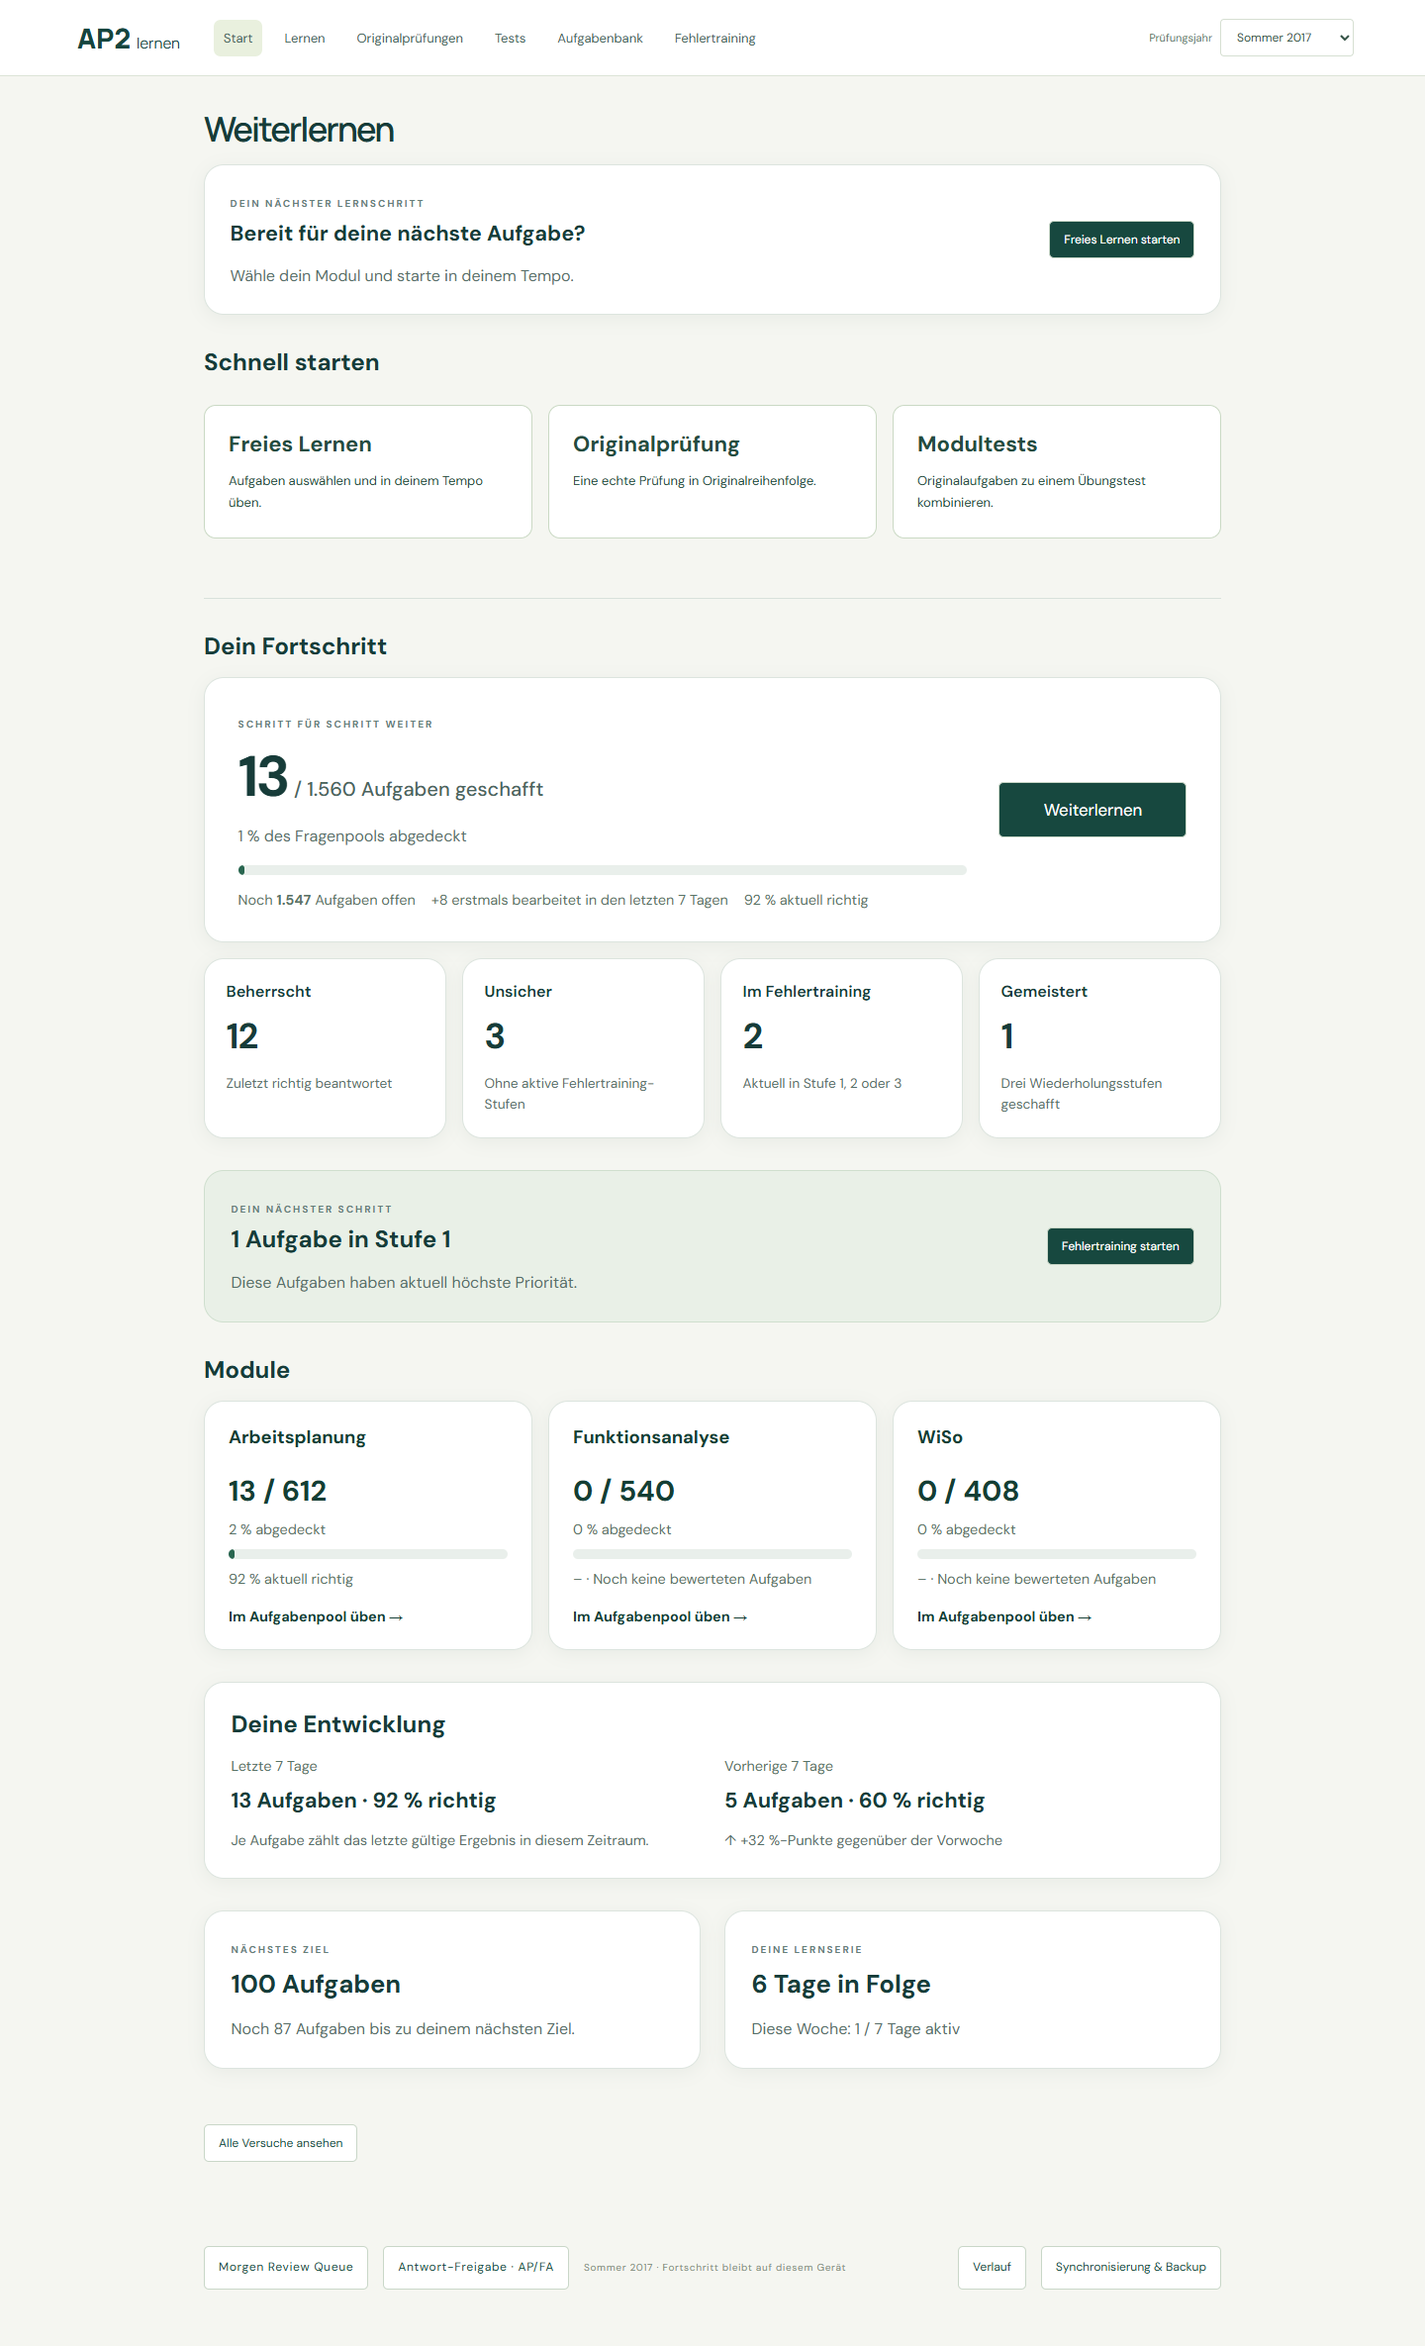
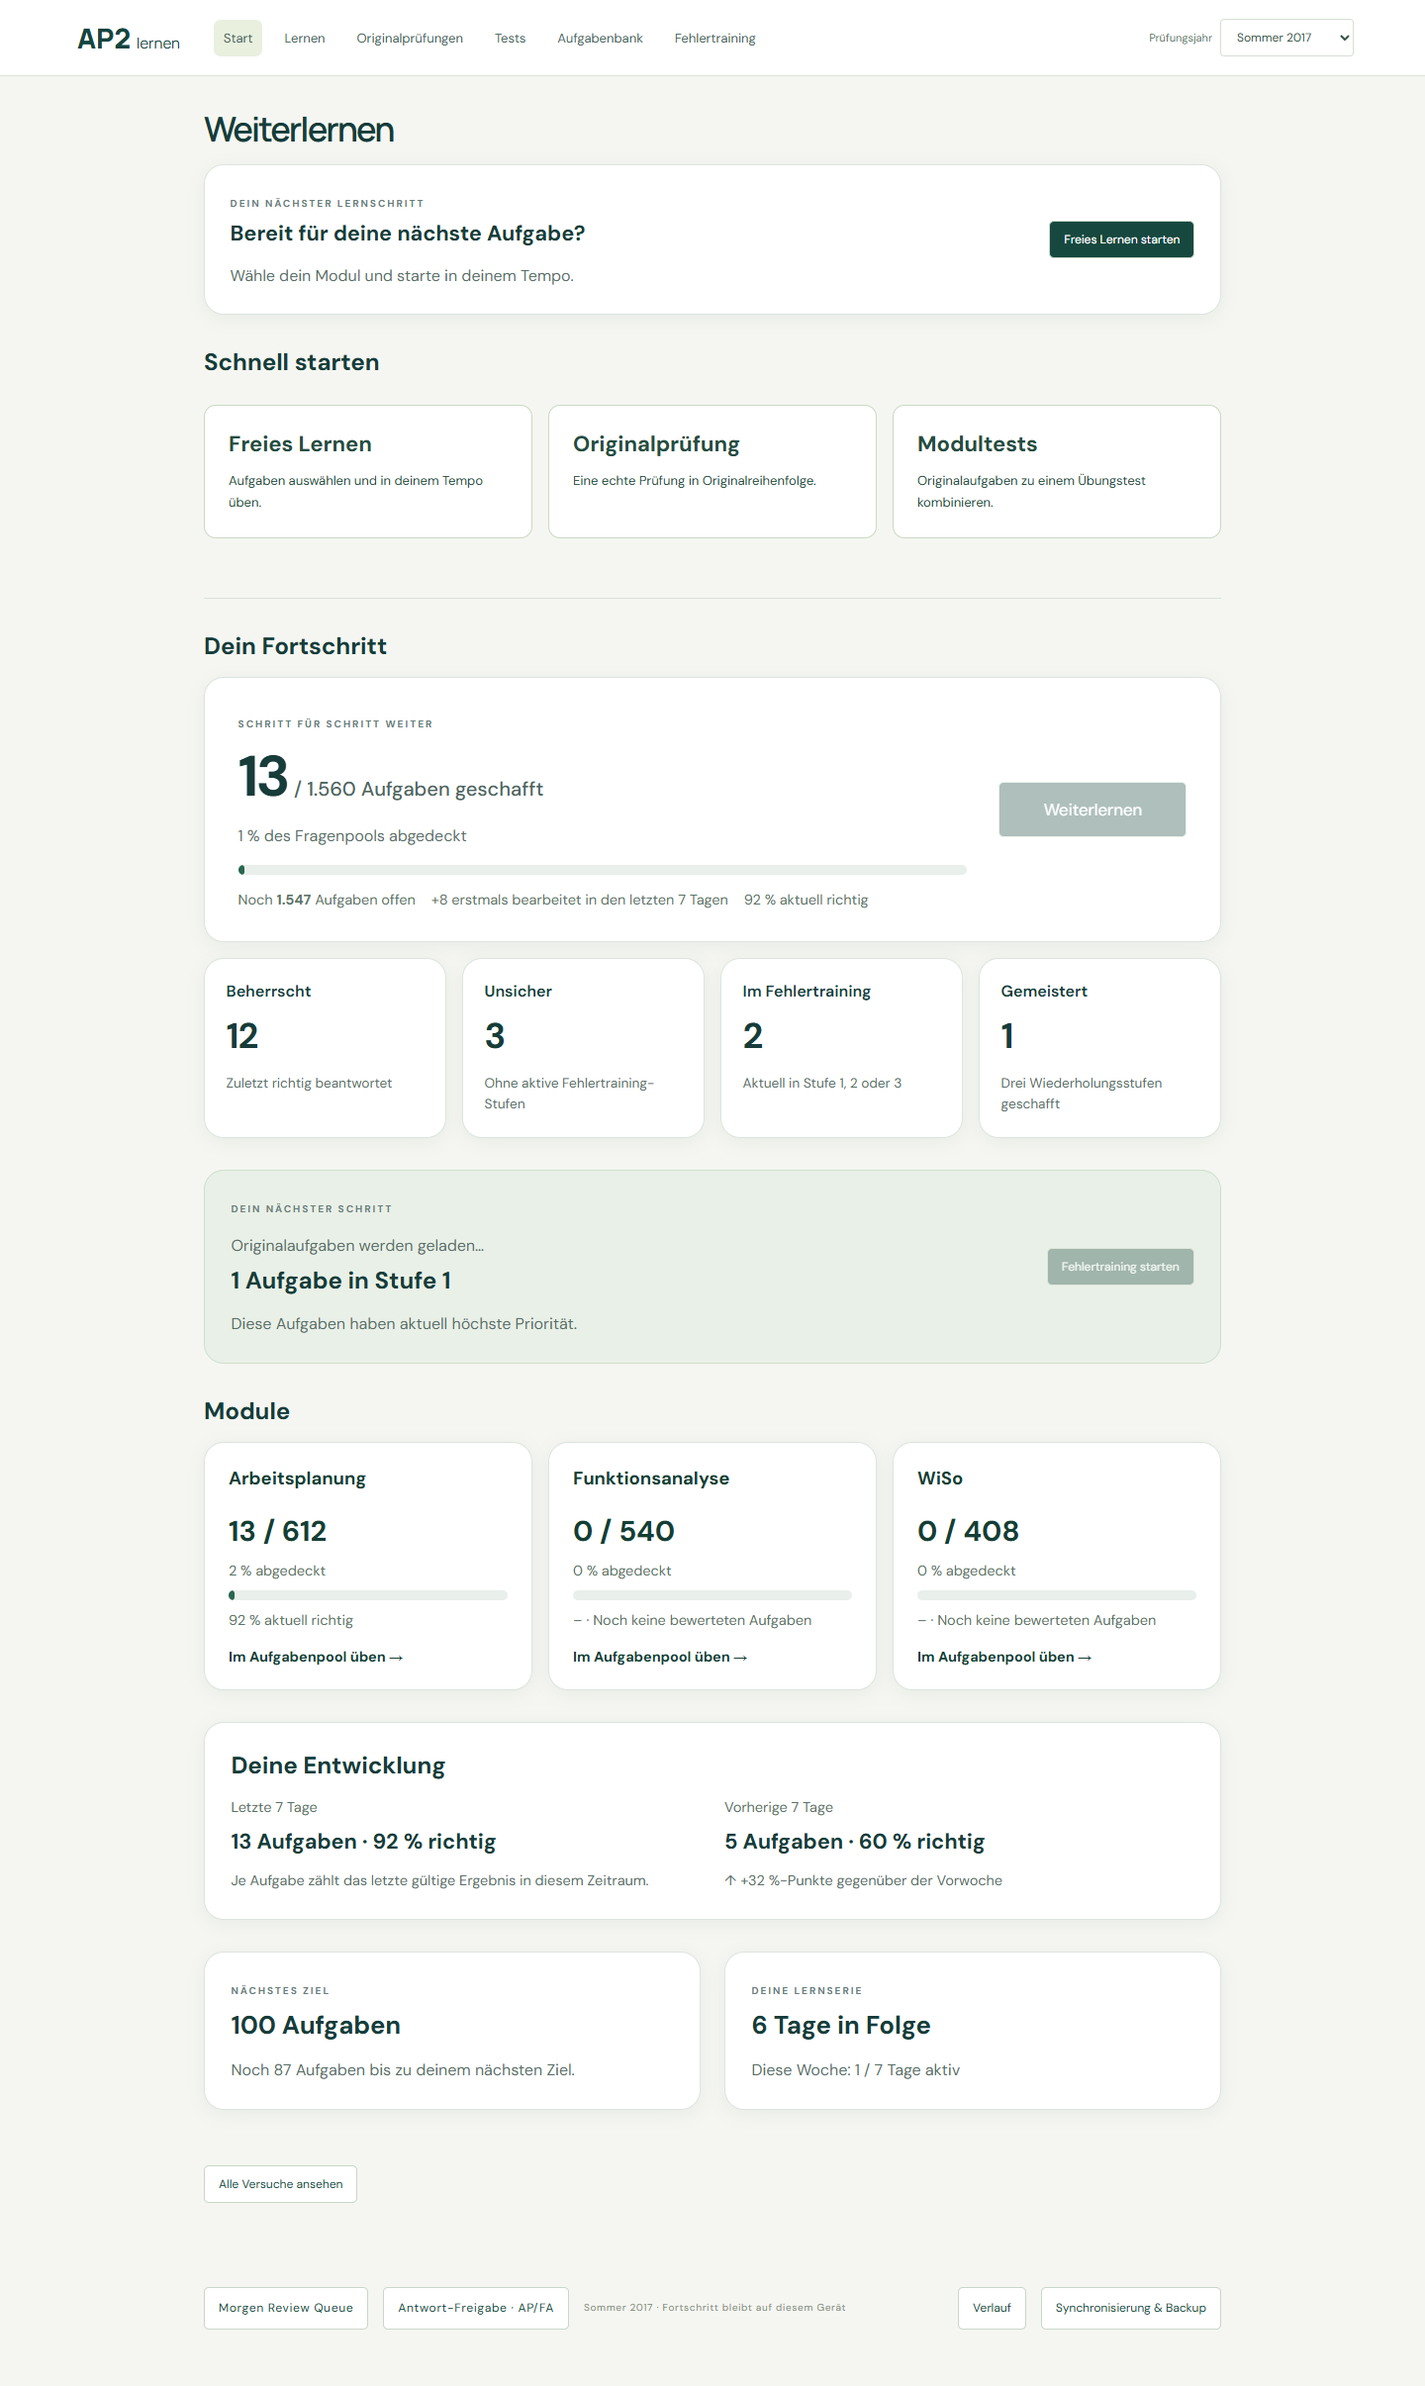
Wait for source readiness before launching dashboard training

diff --git a/src/dashboard/HomeDashboard.tsx b/src/dashboard/HomeDashboard.tsx
@@ -8,7 +8,7 @@ import type {TrainingRun} from '../training/model';
 import {deriveDashboard,type DashboardSnapshot} from './analytics';
 import './dashboard.css';
 import dashboardConfig from './config.json';
-type Props={disabled:boolean;revision:unknown;onLearn:()=>void;onExams:()=>void;onTests:()=>void;onBank:(module?:string)=>void;onStudy:(q:InventoryQuestion)=>void;onTraining:(r:TrainingRun)=>void;onStartTraining:(input:TrainingLaunch)=>Promise<void>;onTest:(t:TestSession)=>void;renderTest:(t:TestSession)=>ReactNode;onHistory:()=>void};
+type Props={disabled:boolean;revision:unknown;canStartTraining:(questions:InventoryQuestion[])=>boolean;onLearn:()=>void;onExams:()=>void;onTests:()=>void;onBank:(module?:string)=>void;onStudy:(q:InventoryQuestion)=>void;onTraining:(r:TrainingRun)=>void;onStartTraining:(input:TrainingLaunch)=>Promise<void>;onTest:(t:TestSession)=>void;renderTest:(t:TestSession)=>ReactNode;onHistory:()=>void};
 const percent=(n:number|null)=>n===null?'–':Math.round(n)+' %';
 const count=(n:number)=>n.toLocaleString('de-DE');
 export default function HomeDashboard(p:Props){
@@ -20,14 +20,16 @@ export default function HomeDashboard(p:Props){
  const learning=snapshot?.learningSessions.filter(l=>inventory?.some(q=>q.question_id===l.question_id)).sort((a,b)=>(b.updated_at??'').localeCompare(a.updated_at??''))[0];
  const candidates=[...(test?[{stamp:test.started_at,kind:'test',run:()=>p.onTest(test),label:'Gespeicherte Prüfung'}]:[]),...(training?[{stamp:training.updated_at,kind:'training',run:()=>p.onTraining(training),label:'Dein gespeichertes Training'}]:[]),...(learning?[{stamp:learning.updated_at??'',kind:'study',run:()=>p.onStudy(inventory!.find(q=>q.question_id===learning.question_id)!),label:'Freies Lernen · '+inventory!.find(q=>q.question_id===learning.question_id)!.moduleTitle}]:[])].sort((a,b)=>b.stamp.localeCompare(a.stamp));
  const resume=candidates[0];
+ const nextIds=new Set(s?.next.kind==='wrong'?s.stage1Ids:s?.next.kind==='uncertainty'?s.unsureIds:[]);
+ const nextReady=!nextIds.size||p.canStartTraining((inventory??[]).filter(q=>nextIds.has(q.question_id)));
  const next=async()=>{if(!s||!inventory)return;setLaunching(true);try{if(s.next.kind==='wrong'||s.next.kind==='uncertainty'){const ids=new Set(s.next.kind==='wrong'?s.stage1Ids:s.unsureIds);await p.onStartTraining({definition:{knowledgeTopicIds:[],questionTypeIds:[],moduleIds:[],examIds:[]},questions:inventory.filter(q=>ids.has(q.question_id)),...(s.next.kind==='wrong'?{stage:1 as const}:{uncertainty:true})});}else if(s.next.kind==='test')p.onTests();else p.onBank(s.next.module);}catch(e){setError(e instanceof Error?e.message:'Training konnte nicht geöffnet werden.');}finally{setLaunching(false)}};
  return <div className="home-dashboard">
  <section data-testid="home-resume" className="home-action-section" aria-label="Weiterlernen">{resume?.kind==='test'&&test?p.renderTest(test):<><h1>Weiterlernen</h1><div className="home-resume-card"><div><span className="eyebrow">DEIN NÄCHSTER LERNSCHRITT</span><h2>{resume?.label??'Bereit für deine nächste Aufgabe?'}</h2><p>{resume?'Dein Fortschritt bleibt gespeichert. Mach dort weiter, wo du aufgehört hast.':'Wähle dein Modul und starte in deinem Tempo.'}</p></div><button className="primary" disabled={disabled} onClick={()=>resume?resume.run():p.onLearn()}>{resume?'Fortsetzen':'Freies Lernen starten'}</button></div></>}</section>
  <section data-testid="home-quick"><h2>Schnell starten</h2><div className="mode-cards"><button disabled={disabled} onClick={p.onLearn}><strong>Freies Lernen</strong><span>Aufgaben auswählen und in deinem Tempo üben.</span></button><button disabled={disabled} onClick={p.onExams}><strong>Originalprüfung</strong><span>Eine echte Prüfung in Originalreihenfolge.</span></button><button disabled={disabled} onClick={p.onTests}><strong>Modultests</strong><span>Originalaufgaben zu einem Übungstest kombinieren.</span></button></div></section>
  {error&&<p role="alert">{error}</p>}
- <section data-testid="home-progress" className="home-progress"><h2>Dein Fortschritt</h2>{!s?<p role="status">Lernübersicht wird geladen…</p>:<><div className="home-hero"><div><span className="eyebrow">SCHRITT FÜR SCHRITT WEITER</span><h3><strong data-testid="coverage-count">{count(s.answered)}</strong><span> / {count(s.total)} Aufgaben geschafft</span></h3><p>{percent(s.coverage)} des Fragenpools abgedeckt</p><progress aria-label="Abdeckung" value={s.answered} max={s.total||1}/><div className="home-hero-foot"><span>Noch <b>{count(s.open)}</b> Aufgaben offen</span><span>+{s.newCoverage} erstmals bearbeitet in den letzten 7 Tagen</span><span>{s.accuracy===null?'– · Noch keine bewerteten Aufgaben':`${percent(s.accuracy)} aktuell richtig`}</span></div></div><button className="primary" disabled={disabled} onClick={()=>resume?resume.run():void next()}>Weiterlernen</button></div>
+ <section data-testid="home-progress" className="home-progress"><h2>Dein Fortschritt</h2>{!s?<p role="status">Lernübersicht wird geladen…</p>:<><div className="home-hero"><div><span className="eyebrow">SCHRITT FÜR SCHRITT WEITER</span><h3><strong data-testid="coverage-count">{count(s.answered)}</strong><span> / {count(s.total)} Aufgaben geschafft</span></h3><p>{percent(s.coverage)} des Fragenpools abgedeckt</p><progress aria-label="Abdeckung" value={s.answered} max={s.total||1}/><div className="home-hero-foot"><span>Noch <b>{count(s.open)}</b> Aufgaben offen</span><span>+{s.newCoverage} erstmals bearbeitet in den letzten 7 Tagen</span><span>{s.accuracy===null?'– · Noch keine bewerteten Aufgaben':`${percent(s.accuracy)} aktuell richtig`}</span></div></div><button className="primary" disabled={disabled||(!resume&&!nextReady)} onClick={()=>resume?resume.run():void next()}>Weiterlernen</button></div>
  <div className="home-kpis">{[{title:'Beherrscht',value:s.correct,text:'Zuletzt richtig beantwortet',id:'correct'},{title:'Unsicher',value:s.unsure,text:'Ohne aktive Fehlertraining-Stufen',id:'unsure'},{title:'Im Fehlertraining',value:s.wrong,text:'Aktuell in Stufe 1, 2 oder 3',id:'wrong'},{title:'Gemeistert',value:s.mastered,text:'Drei Wiederholungsstufen geschafft',id:'mastered'}].map(k=><article key={k.id}><h3>{k.title}</h3><strong data-testid={'kpi-'+k.id}>{count(k.value)}</strong><p>{k.text}</p></article>)}</div></>}</section>
- {s&&<><section className="home-next" data-testid="home-next"><div><span className="eyebrow">DEIN NÄCHSTER SCHRITT</span><h2>{s.next.kind==='wrong'?`${s.next.count} ${s.next.count===1?'Aufgabe':'Aufgaben'} in Stufe 1`:s.next.kind==='uncertainty'?`${s.next.count} unsichere Aufgaben`:s.next.kind==='test'?'Bereit für einen Modultest':s.modules.find(m=>m.module===s.next.module)?.title??'Starte deine erste Aufgabe'}</h2><p>{s.next.kind==='wrong'?'Diese Aufgaben haben aktuell höchste Priorität.':s.next.kind==='uncertainty'?'Mehr Sicherheit gewinnen – mit deinen markierten Aufgaben.':s.next.kind==='test'?'Du hast einen großen Teil des Fragenpools bearbeitet. Prüfe dein Wissen im Zusammenhang.':'Hier ist noch am meisten Platz für deinen Fortschritt.'}</p></div><button className="primary" disabled={disabled} onClick={()=>void next()}>{s.next.kind==='wrong'?'Fehlertraining starten':s.next.kind==='uncertainty'?'Unsicher Training starten':s.next.kind==='test'?'Modultest starten':'Weiterlernen'}</button></section>
+ {s&&<><section className="home-next" data-testid="home-next" aria-busy={!nextReady}><div><span className="eyebrow">DEIN NÄCHSTER SCHRITT</span>{!nextReady&&<p role="status">Originalaufgaben werden geladen…</p>}<h2>{s.next.kind==='wrong'?`${s.next.count} ${s.next.count===1?'Aufgabe':'Aufgaben'} in Stufe 1`:s.next.kind==='uncertainty'?`${s.next.count} unsichere Aufgaben`:s.next.kind==='test'?'Bereit für einen Modultest':s.modules.find(m=>m.module===s.next.module)?.title??'Starte deine erste Aufgabe'}</h2><p>{s.next.kind==='wrong'?'Diese Aufgaben haben aktuell höchste Priorität.':s.next.kind==='uncertainty'?'Mehr Sicherheit gewinnen – mit deinen markierten Aufgaben.':s.next.kind==='test'?'Du hast einen großen Teil des Fragenpools bearbeitet. Prüfe dein Wissen im Zusammenhang.':'Hier ist noch am meisten Platz für deinen Fortschritt.'}</p></div><button className="primary" disabled={disabled||!nextReady} onClick={()=>void next()}>{s.next.kind==='wrong'?'Fehlertraining starten':s.next.kind==='uncertainty'?'Unsicher Training starten':s.next.kind==='test'?'Modultest starten':'Weiterlernen'}</button></section>
  <section data-testid="home-modules"><h2>Module</h2><div className="home-modules">{s.modules.map(m=><button className="home-module" key={m.module} onClick={()=>p.onBank(m.module)} disabled={disabled}><h3>{m.title}</h3><strong>{count(m.answered)} / {count(m.total)}</strong><span>{percent(m.coverage)} abgedeckt</span><progress aria-label={m.title+' Abdeckung'} value={m.answered} max={m.total||1}/><span>{m.accuracy===null?'– · Noch keine bewerteten Aufgaben':`${percent(m.accuracy)} aktuell richtig`}</span><b>Im Aufgabenpool üben →</b></button>)}</div></section>
  <section className="home-development" data-testid="home-development"><h2>Deine Entwicklung</h2><div className="home-window-grid"><article><span>Letzte 7 Tage</span><h3>{s.current.count} Aufgaben · {percent(s.current.accuracy)} richtig</h3><p>Je Aufgabe zählt das letzte gültige Ergebnis in diesem Zeitraum.</p></article><article><span>Vorherige 7 Tage</span><h3>{s.previous.count} Aufgaben · {percent(s.previous.accuracy)} richtig</h3><p>{s.delta===null?`Für einen Vergleich brauchst du mindestens ${dashboardConfig.minTrendQuestions} bewertete Aufgaben in beiden Zeiträumen.`:s.delta>0?`↑ +${Math.round(s.delta)} %-Punkte gegenüber der Vorwoche`:s.delta<0?`${Math.round(s.delta)} %-Punkte · Wiederholung lohnt sich`:'Stabil geblieben · Bleib dran'}</p></article></div></section>
  <section className="home-goals"><article><span className="eyebrow">NÄCHSTES ZIEL</span><h2>{s.milestone?`${count(s.milestone)} Aufgaben`:'Den ganzen Fragenpool geschafft'}</h2><p>{s.milestone?`Noch ${count(s.milestone-s.answered)} Aufgaben bis zu deinem nächsten Ziel.`:'Jede Wiederholung hilft dir, sicherer zu werden.'}</p></article><article><span className="eyebrow">DEINE LERNSERIE</span><h2>{s.streak?`${s.streak} ${s.streak===1?'Tag':'Tage'} in Folge`:'Ein guter Tag zum Starten'}</h2><p>Diese Woche: {s.weekActive} / 7 Tage aktiv</p></article></section></>}

diff --git a/src/learning/LearningApp.tsx b/src/learning/LearningApp.tsx
@@ -137,7 +137,7 @@ export default function LearningApp(){
  <main className="learning-main">
  {testError&&<p role="alert" className="session-warning">{testError}</p>}
  {locationState.view==='study'&&<div className="compact-module"><span>Freies Lernen / {examLabel(config.examId)} / {config.title} / Aufgabe {locationState.number}</span><label>Modul <select aria-label="Lernmodul" disabled={busy} value={moduleKey(config)} onChange={e=>{const m=MODULES.find(m=>moduleKey(m)===e.target.value)!;navigate('study',moduleProgress(bundles[e.target.value]?.exam.questions??[],moduleStates.find(p=>p.id===e.target.value)).resumeNumber,m.slug,m.examId);}}>{EXAM_SESSIONS.flatMap(season=>moduleEntries(MODULES,season.id).map(entry=><option key={season.id+'/'+entry.slug} value={season.id+'/'+entry.slug} disabled={!entry.config}>{season.label} · {entry.title}{!entry.config?' · Noch nicht verfügbar':''}</option>))}</select></label></div>}
- {locationState.view==='start'?<HomeDashboard disabled={busy||!personalLoaded} revision={testSessions} onLearn={()=>navigate('learn')} onExams={()=>navigate('exams')} onTests={()=>navigate('tests')} onBank={module=>void transition.current({view:'bank',examId:locationState.examId,module:locationState.module,number:'1',bankModule:module},true)} onStudy={q=>navigate('study',q.number,q.module,q.examId)} onTraining={openTraining} onStartTraining={startTraining} onTest={openTest} renderTest={t=>historyList([t],'Weiterlernen')} onHistory={()=>navigate('history')}/>:
+ {locationState.view==='start'?<HomeDashboard canStartTraining={questions=>questions.every(q=>{const m=findModule(q.examId,q.module);return !!m&&!!bundles[moduleKey(m)];})} disabled={busy||!personalLoaded} revision={testSessions} onLearn={()=>navigate('learn')} onExams={()=>navigate('exams')} onTests={()=>navigate('tests')} onBank={module=>void transition.current({view:'bank',examId:locationState.examId,module:locationState.module,number:'1',bankModule:module},true)} onStudy={q=>navigate('study',q.number,q.module,q.examId)} onTraining={openTraining} onStartTraining={startTraining} onTest={openTest} renderTest={t=>historyList([t],'Weiterlernen')} onHistory={()=>navigate('history')}/>:
  locationState.view==='learn'?<><h1>Freies Lernen</h1>{yearTabs}<p>Modul und Teil wählen. Dein persönlicher Lernfortschritt bleibt unabhängig von Prüfungen und Tests.</p>{seasonCards('learn')}</>:
  locationState.view==='exams'?<><h1>Originalprüfungen</h1>{yearTabs}<p>Alle Aufgaben des gewählten Moduls in Originalreihenfolge und unabhängige Antworten. Lösungen erst nach der Abgabe.</p>{seasonCards('original')}{embeddedHistory('original',locationState.examId)}</>:
  locationState.view==='tests'?<><h1>Modultests</h1><SourceYearSelection value={sourceExams} years={EXAM_SESSIONS.filter(s=>MODULES.some(m=>m.examId===s.id))} disabled={busy} onChange={next=>{if(!busyRef.current)void transition.current({...locationState,sourceExams:next},true);}}/><p>{sourceDescription(sourceExams,examLabel)}</p>{!moduleCards.length&&(sourceExams==='all'||sourceExams.length>0)&&<p role="alert">Für diese Auswahl sind keine Module verfügbar. Bitte andere Jahrgänge wählen.</p>}<p>Kurz: 6 Auswahlaufgaben + 2 offene Aufgaben. Standard: 12 + 4. Zufällige Auswahl ohne Wiederholungen innerhalb eines Tests.</p><div className="module-cards">{cards('module')}</div>{embeddedHistory('module')}</>:
